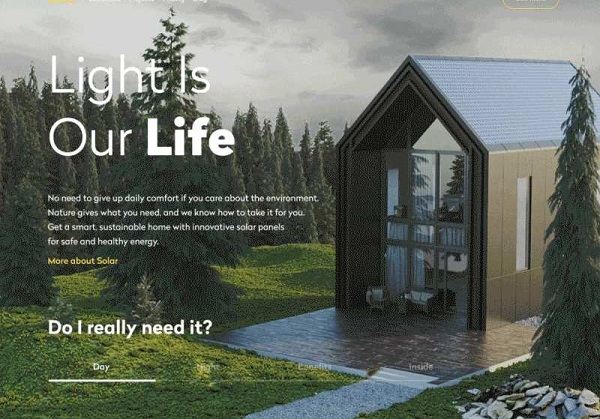
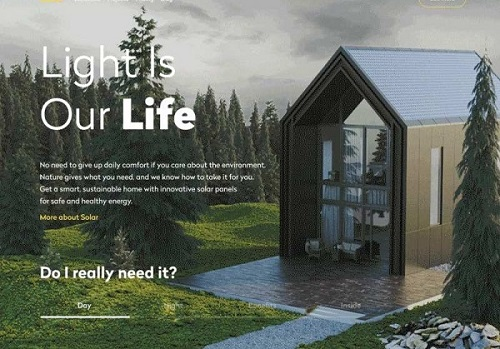
update

diff --git a/index.html b/index.html
@@ -3,7 +3,7 @@
 <head>
     <meta charset="UTF-8">
     <meta http-equiv="X-UA-Compatible" content="IE=edge">
-    <meta name="viewport" content="width=device-width, initial-scale=1.0">
+    <!-- <meta name="viewport" content="width=device-width, initial-scale=1.0"> -->
     <title>
         Project: Landing Page | The Odin Project
     </title>
@@ -28,7 +28,7 @@
         </div>
         
         <div class="body1right">
-            <img src="3.jpg">
+            <img src="3.webp">
         </div>
     </div>
 

diff --git a/styles.css b/styles.css
@@ -2,6 +2,7 @@ body
 {
     margin: 0;
     padding: 0;
+    background-color: white;
 }
 
 .menu .center
@@ -61,10 +62,9 @@ footer
 {
     background-color: #1F2937;
     display: flex;
-    flex: 1 1 0%;
     justify-content: center;
     align-items: center;
-    padding: 90px;
+    height: 530px;
     gap: 2%;
 }
 .Body1 .body1right
@@ -75,8 +75,9 @@ footer
 
 .Body1 .body1left
 {
-    flex-basis: 400px;
+
     flex-direction: column;
+    width: 400px;
 }
 
 .body1h
